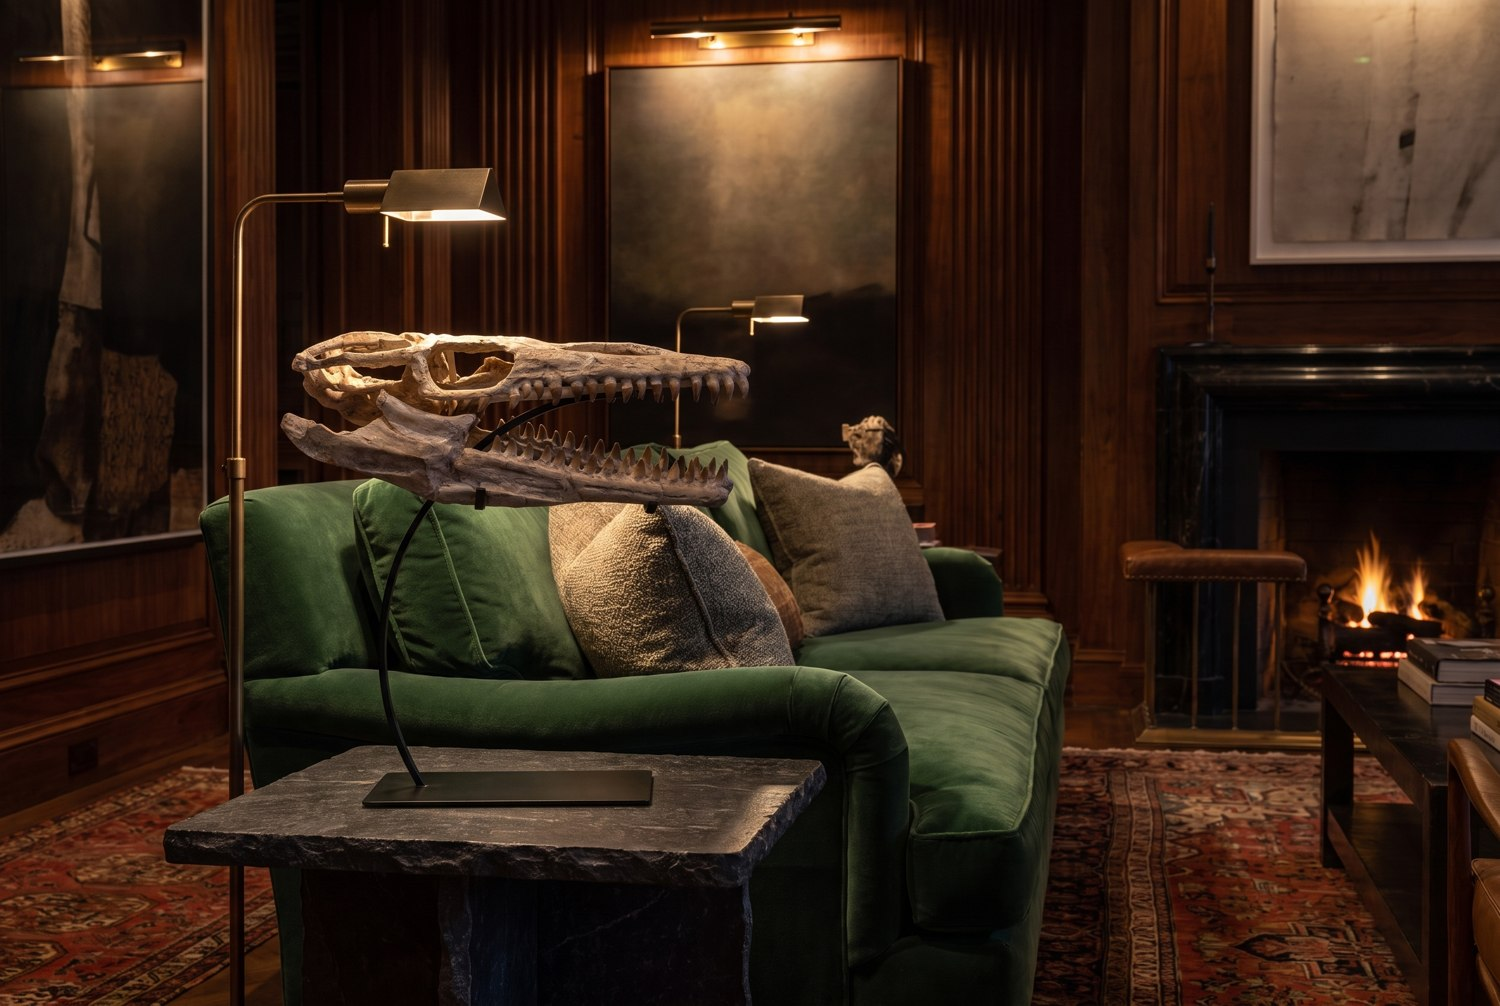
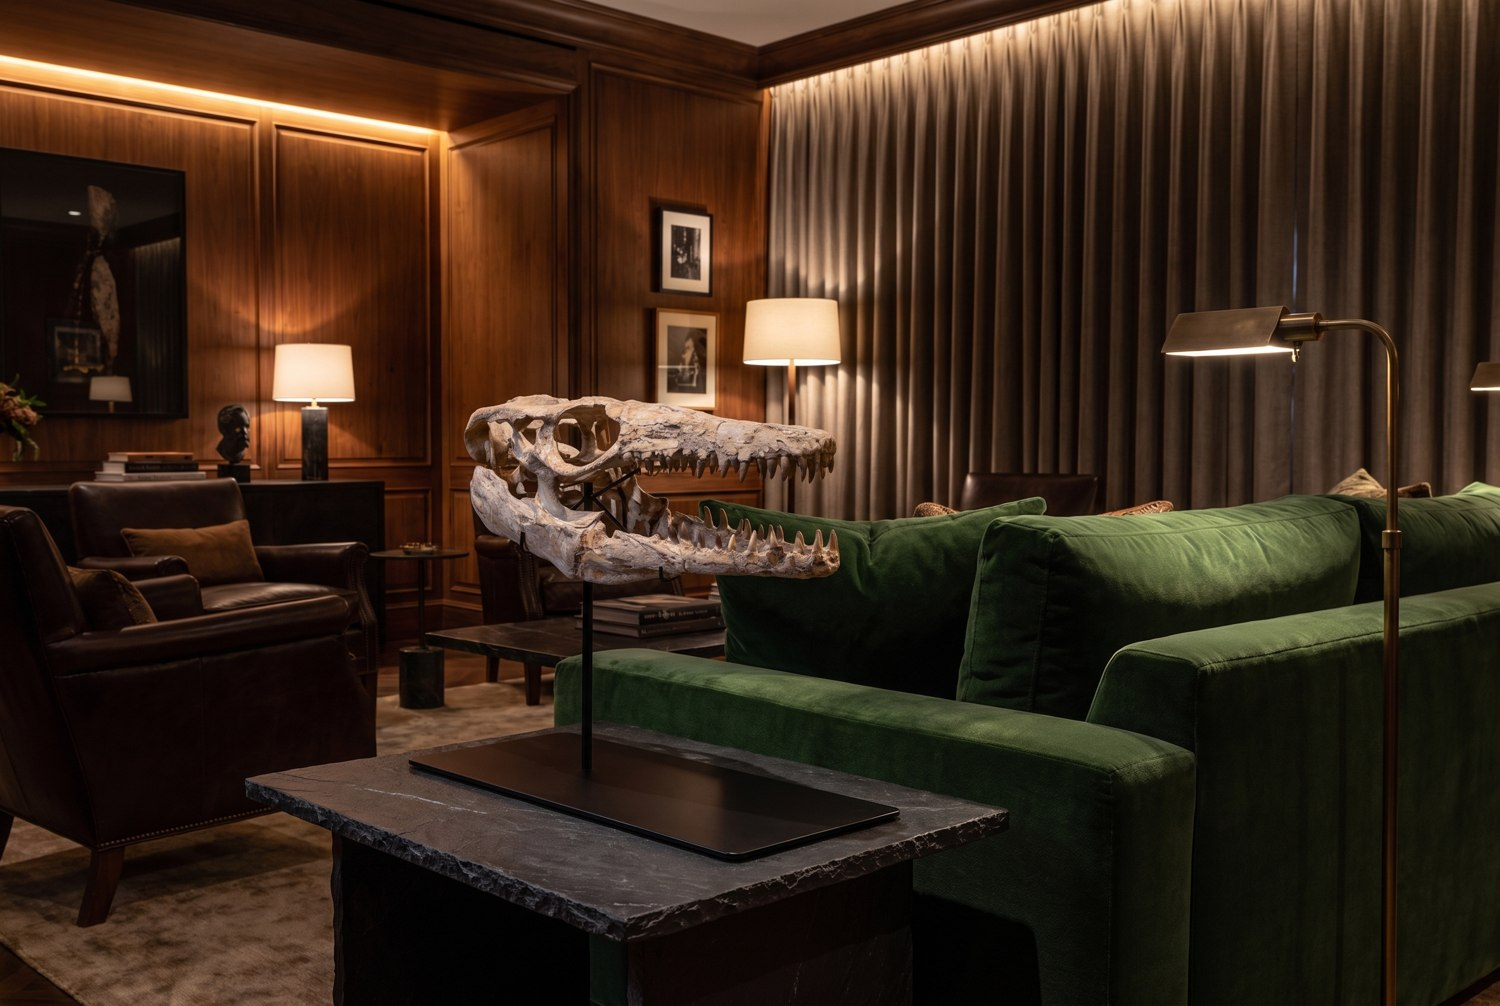
мозазавр: канон и интерьер с прямой стойкой на длинном основании; базилозавр: крупный интерьер; чертёж и живой аммонит v2; вертикальная реконструкция миксозавра; HOUSE-RULES.md; сломанный g_ichthyo_2 убран

diff --git a/16_product_promos/promo-data.js b/16_product_promos/promo-data.js
@@ -735,7 +735,7 @@ window.RELICTUM_PROMO = {
       text: "Миксозавр плывёт с тем же изгибом тела, что скелет на плите: дельфинья посадка, зубастая морда, крупный глаз. Открытое триасовое море."
     },
     spin: "spin_ichthyosaur_plate.mp4",
-    gallery: ["int_ph_ichthyosaur_plate.jpg", "anat_ichthyosaur_plate.jpg", "life_ichthyosaur_plate.jpg", "g_ichthyo_2.jpg"],
+    gallery: ["int_ph_ichthyosaur_plate.jpg", "anat_ichthyosaur_plate.jpg", "life_ichthyosaur_plate.jpg"],
     interior: { video: "intv_ichthyosaur_plate.mp4", img: "int_ph_ichthyosaur_plate.jpg", text: "Горизонтальная плита с миксозавром задаёт стену по своей длине, а не по привычному вертикальному простенку между окнами." },
     hook: "Миксозавр в известняковой плите — череп, позвоночник и грудная клетка в анатомической связи.",
     heroKicker: "Морские рептилии, Гуйчжоу, Китай",
@@ -3650,6 +3650,7 @@ window.RELICTUM_PROMO = {
     "era": { "title": "Моря мезозоя", "line": "Мезозойская эра, 252–66 млн лет назад" },
     "life": {
       "img": "life_ammonite_large.jpg",
+      "diagram": "anat_ammonite_large.jpg",
       "stateLabel": "При жизни",
       "title": "Спираль в толще воды",
       "text": "Живой аммонит в той же ориентации, что и раковина: щупальца и крупный глаз у устья, камеры-поплавок держат его в толще моря."

diff --git a/16_product_promos/HOUSE-RULES.md b/16_product_promos/HOUSE-RULES.md
@@ -1,0 +1,75 @@
+# ПРАВИЛА ДОМА RELICTUM — тексты и медиа карточек
+
+Собрано из правок Вашика (июль–август 2026). **Проверять каждый новый лот по этому списку
+ДО деплоя.** Дополнять при каждом новом замечании владельца.
+
+## Тексты (промо + каталог)
+
+1. **Полные названия периодов.** Никогда не «юра», «мел», «триас», «неоген», «девон»,
+   «ордовик», «палеоген» голыми существительными. Только «юрский период», «меловой период»,
+   «позднемеловое время», «триасового периода» и т.п. «Плейстоцен» — допустим (официальное
+   название эпохи и период в каталоге).
+2. **Без пустых зачинов.** Первое предложение сразу несёт факт. Запрещены назывные зачины
+   («Средняя–поздняя юра, 167 млн лет назад.», «Эпоха, место.», «Тот же век, те же земли»)
+   и филлеры («материки выглядели совсем иначе», «мир был другим»).
+3. **Без дублей внутри карточки.** Один факт звучит один раз: если «единичные находки»
+   в паспорте-таблице, в абзацах этого нет. Проверять пары hook/story/paragraphs/alive/life.
+4. **Никаких формул неопределённости.** «Вид не определён», «роды не определялись»,
+   «уточняется» — запрещены. Пишем общеизвестные факты на уровне рода/семейства/отряда.
+5. **Без оформления и подставок в описаниях.** «Экспонируется на музейной стойке»,
+   «музейный монтаж», «в раме» — не в description и не в паспортных абзацах.
+   Оформление — только в поле mount и сервисных блоках.
+6. **Без выставочных оценок.** «Держит пространство/внимание/комнату» (в паспорте),
+   «доминанта», «требует немногого», «самодостаточный экспонат», «высокая узнаваемость»,
+   «компактный экспонат с ясной привязкой» — убирать.
+7. **Без ИИ-оборотов.** «Представьте», «тот самый / та самая», «удивительный»,
+   «Тот, кто оставил…», «Пасть, к которой прилагался зуб» — никаких конструкций
+   «то, к чему прилагалось то-то».
+8. **Согласование времён.** После «миллионов лет назад» — прошедшее время.
+9. **Себестоимость не публикуется.** Продажные цены — можно (решение владельца).
+10. **Не выдумывать провенанс.** Место/дата находки — только известные. Если неизвестно —
+    наиболее вероятный регион с пометкой владельцу на проверку (не «уточняется»).
+
+## Обязательный состав карточки животного лота
+
+- **profile** (facts + paragraphs) И **life** (реконструкция) — вместе: тогда история
+  встраивается в блок «При жизни» и появляется слайдер. Без life история торчит отдельной
+  секцией — считается недоделкой.
+- **life.img** — реконструкция живого существа В ЕГО СРЕДЕ (не студийный фон), в том же
+  профиле/ориентации, что канон (для слайдера). Вертикальный канон → вертикальный life.
+  Реалистичность: живая раковина/кожа, НЕ текстура полированного ископаемого.
+- **life.diagram (anat_*)** — чертёж: гравюра тушью на состаренной кремовой бумаге,
+  штриховка XIX века, без текста, подписей, рамок и полос по краям. Объект без подставки.
+- **alive** — индивидуальный текст «При жизни» (title + text) для КАЖДОГО животного лота;
+  общий фолбэк эпохи («Мир, в котором жил этот экспонат») — недоделка. Видео подбирать
+  по среде: морским — море (era_jurassic_sea и т.п.), не равнины с трицератопсами.
+- **interior** — int_ph_* кадр + подпись. Масштаб предмета в интерьере должен
+  соответствовать реальному размеру (метровый череп = крупная вещь на консоли).
+- **gallery** — только чистые кадры: без рабочих исходников (сукно, линейки, красные шторы),
+  без чёрных студийных генераций, без сломанных кадров (проверять глазами: швы, задвоения).
+
+## Каноны (ph_*)
+
+- **Формат 4:5 вертикальный** (1200×1500). Горизонтальный канон = зазоры в контейнере.
+- Реф — реальное фото экспоната; объект пиксельно тот же, менять только окружение.
+- Фон слоновая кость #F4F0E8, мягкий свет, естественная тень.
+- Подставки: чёрный металл, изящные (тонкая стойка/дуга, плоская база). Грубые крестовины,
+  серые подиумы — заменять. Линейки/рулетки с фото — убирать промптом.
+- После замены канона пересобрать зависимые кадры (int_ph, life, anat) — они должны
+  соответствовать актуальному канону, а не старому.
+
+## Медиа-конвейер (Higgsfield web, безлимит)
+
+- Картинки: nano banana pro, тумблер Unlimited в баре → кнопка «Unlimited ✦».
+- Видео: Kling 2.5 Turbo, 720p, тумблер «Unlimited mode» → «Generate Unlimited».
+- Скачивание: id из DOM viewer'а (`hf_ГГГГММДД_ЧЧММСС_uuid`) → curl
+  `d8j0ntlcm91z4.cloudfront.net/user_2yNZpqvl4ZCmsV4r2wgVHlwv5Lt/<id>.png` (без подписи).
+- Пережим: PIL thumbnail 1500, quality 87–88 → shared/img. Видео: ffmpeg -crf 24.
+- Проверять КАЖДЫЙ кадр глазами до деплоя (швы, полосы, лишние объекты, число предметов).
+
+## Деплой
+
+- Каждая правка: commit → `git push work main` → `python3 09_admin/build_public_site.py` →
+  rsync БЕЗ `--delete` → сверка md5 файлов на живом.
+- Кэш-версия медиа обновляется сборкой автоматически; при замене файла под тем же именем
+  сборка обязательна.
